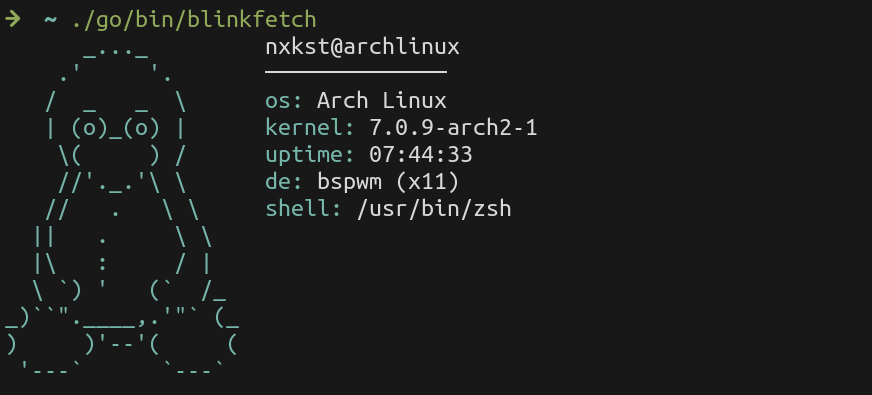
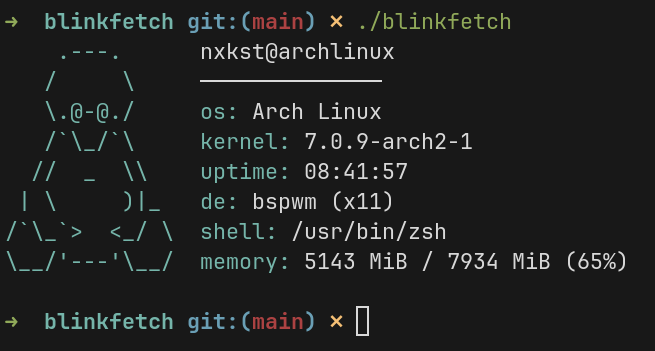
Added memory module, refactored code, changed ascii art.

diff --git a/internal/information/modules.go b/internal/information/modules.go
@@ -3,12 +3,13 @@ package information
 import "github.com/nxkst/blinkfetch/internal/ui"
 
 var (
-	Username, _     = GetUsername()
-	Hostname, _     = GetHostname()
-	Distro          = GetDistro()
-	Kernel, _       = GetKernel()
-	Uptime, _       = GetUptime()
-	FormattedUptime = ui.FormatTime(Uptime)
-	Desktop         = GetDesktop()
-	Shell           = GetShell()
+	Username, _                                   = GetUsername()
+	Hostname, _                                   = GetHostname()
+	Distro                                        = GetDistro()
+	Kernel, _                                     = GetKernel()
+	Uptime, _                                     = GetUptime()
+	FormattedUptime                               = ui.FormatTime(Uptime)
+	Desktop                                       = GetDesktop()
+	Shell                                         = GetShell()
+	UsedMemory, TotalMemory, UsedMemoryPercent, _ = GetMemory()
 )

diff --git a/internal/information/get_memory.go b/internal/information/get_memory.go
@@ -1,0 +1,19 @@
+package information
+
+import (
+	"fmt"
+	"github.com/shirou/gopsutil/v4/mem"
+	"math"
+)
+
+const MiB = 1024 * 1024
+
+func GetMemory() (string, string, string, error) {
+	vm, err := mem.VirtualMemory()
+
+	used := fmt.Sprintf("%.0f", math.Round(float64(vm.Used)/MiB))
+	total := fmt.Sprintf("%.0f", math.Round(float64(vm.Total)/MiB))
+	usedPercent := fmt.Sprintf("%.0f", vm.UsedPercent)
+
+	return used, total, usedPercent, err
+}

diff --git a/cmd/blinkfetch/main.go b/cmd/blinkfetch/main.go
@@ -31,6 +31,11 @@ func main() {
 		fmt.Sprintf("\033[36mshell:\033[0m %s",
 			information.Shell,
 		),
+		fmt.Sprintf("\033[36mmemory:\033[0m %s MiB / %s MiB (%s%%)",
+			information.UsedMemory,
+			information.TotalMemory,
+			information.UsedMemoryPercent,
+		),
 	}
 
 	fmt.Print(ui.FormatOutput(ASCIIArt, header, info))

diff --git a/internal/information/get_desktop.go b/internal/information/get_desktop.go
@@ -6,10 +6,8 @@ import (
 )
 
 func GetDesktop() string {
-	var (
-		desktop = os.Getenv("XDG_CURRENT_DESKTOP")
-		session = os.Getenv("XDG_SESSION_TYPE")
-	)
+	desktop := os.Getenv("XDG_CURRENT_DESKTOP")
+	session := os.Getenv("XDG_SESSION_TYPE")
 
 	return fmt.Sprintf("%s (%s)", desktop, session)
 }
